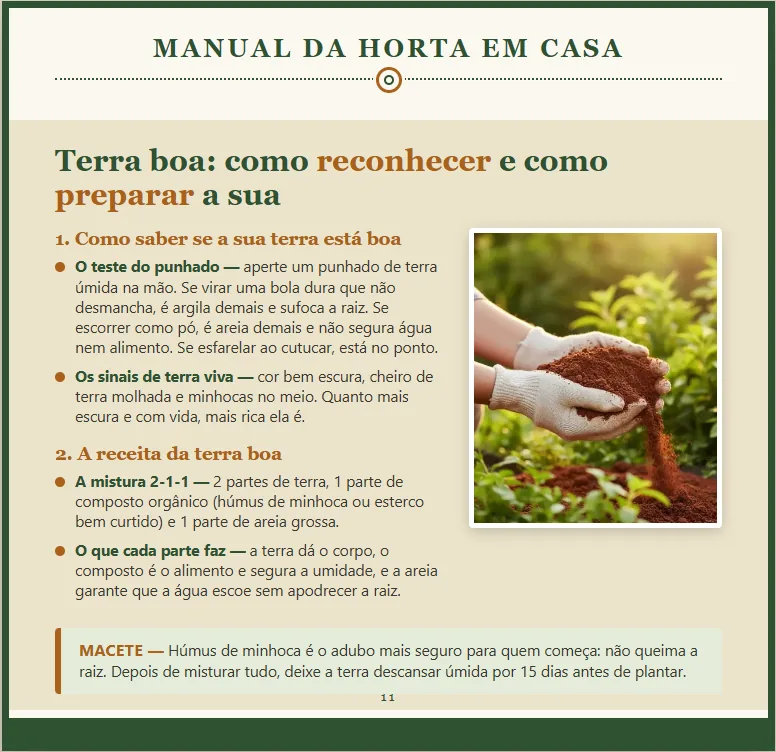
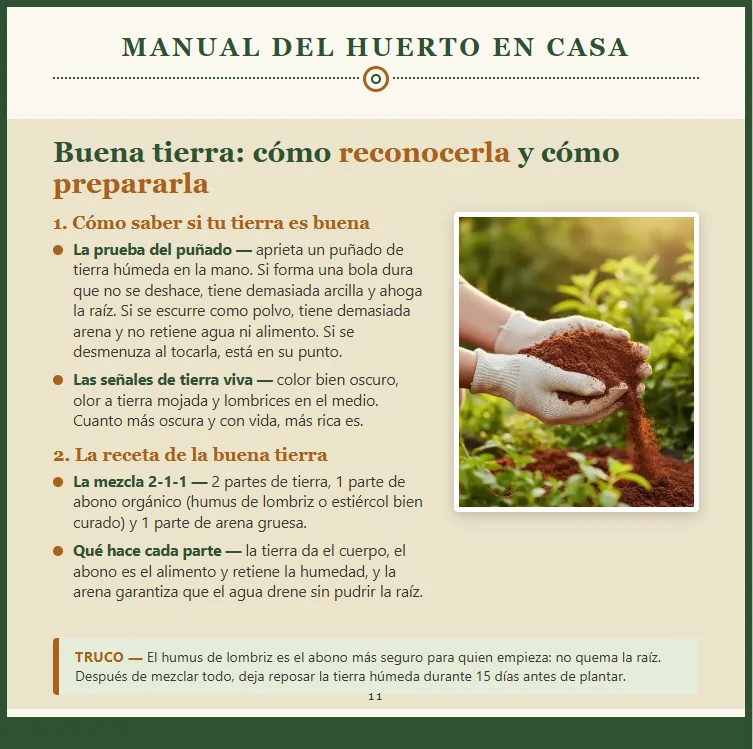
feat(huerta): imagens ES do Manual + restaura secao 'Mira lo que vas a recibir'
- 3 paginas internas do Manual em espanhol (Buena tierra / El espacio correcto / Espanta las plagas)
- Descomenta a secao do carrossel (agora com as imagens ES)

diff --git a/huerta/index.html b/huerta/index.html
@@ -108,7 +108,6 @@
 <!-- ============================================================
      3. MIRA LO QUE VAS A RECIBIR (carrusel)
      ============================================================ -->
-<!-- OCULTA TEMPORARIAMENTE (faltam as imagens ES do carrossel). Para RESTAURAR, remova esta linha de abertura de comentario e a linha de fechamento no fim desta secao.
 <section class="deliver-section">
 <div class="container">
 <h2 class="section-title title-tight">Mira lo que vas a recibir</h2>
@@ -128,7 +127,6 @@
 </div>
 </div>
 </section>
--->
 
 <!-- ============================================================
      4. PARA QUIÉN ES ESTE MATERIAL
